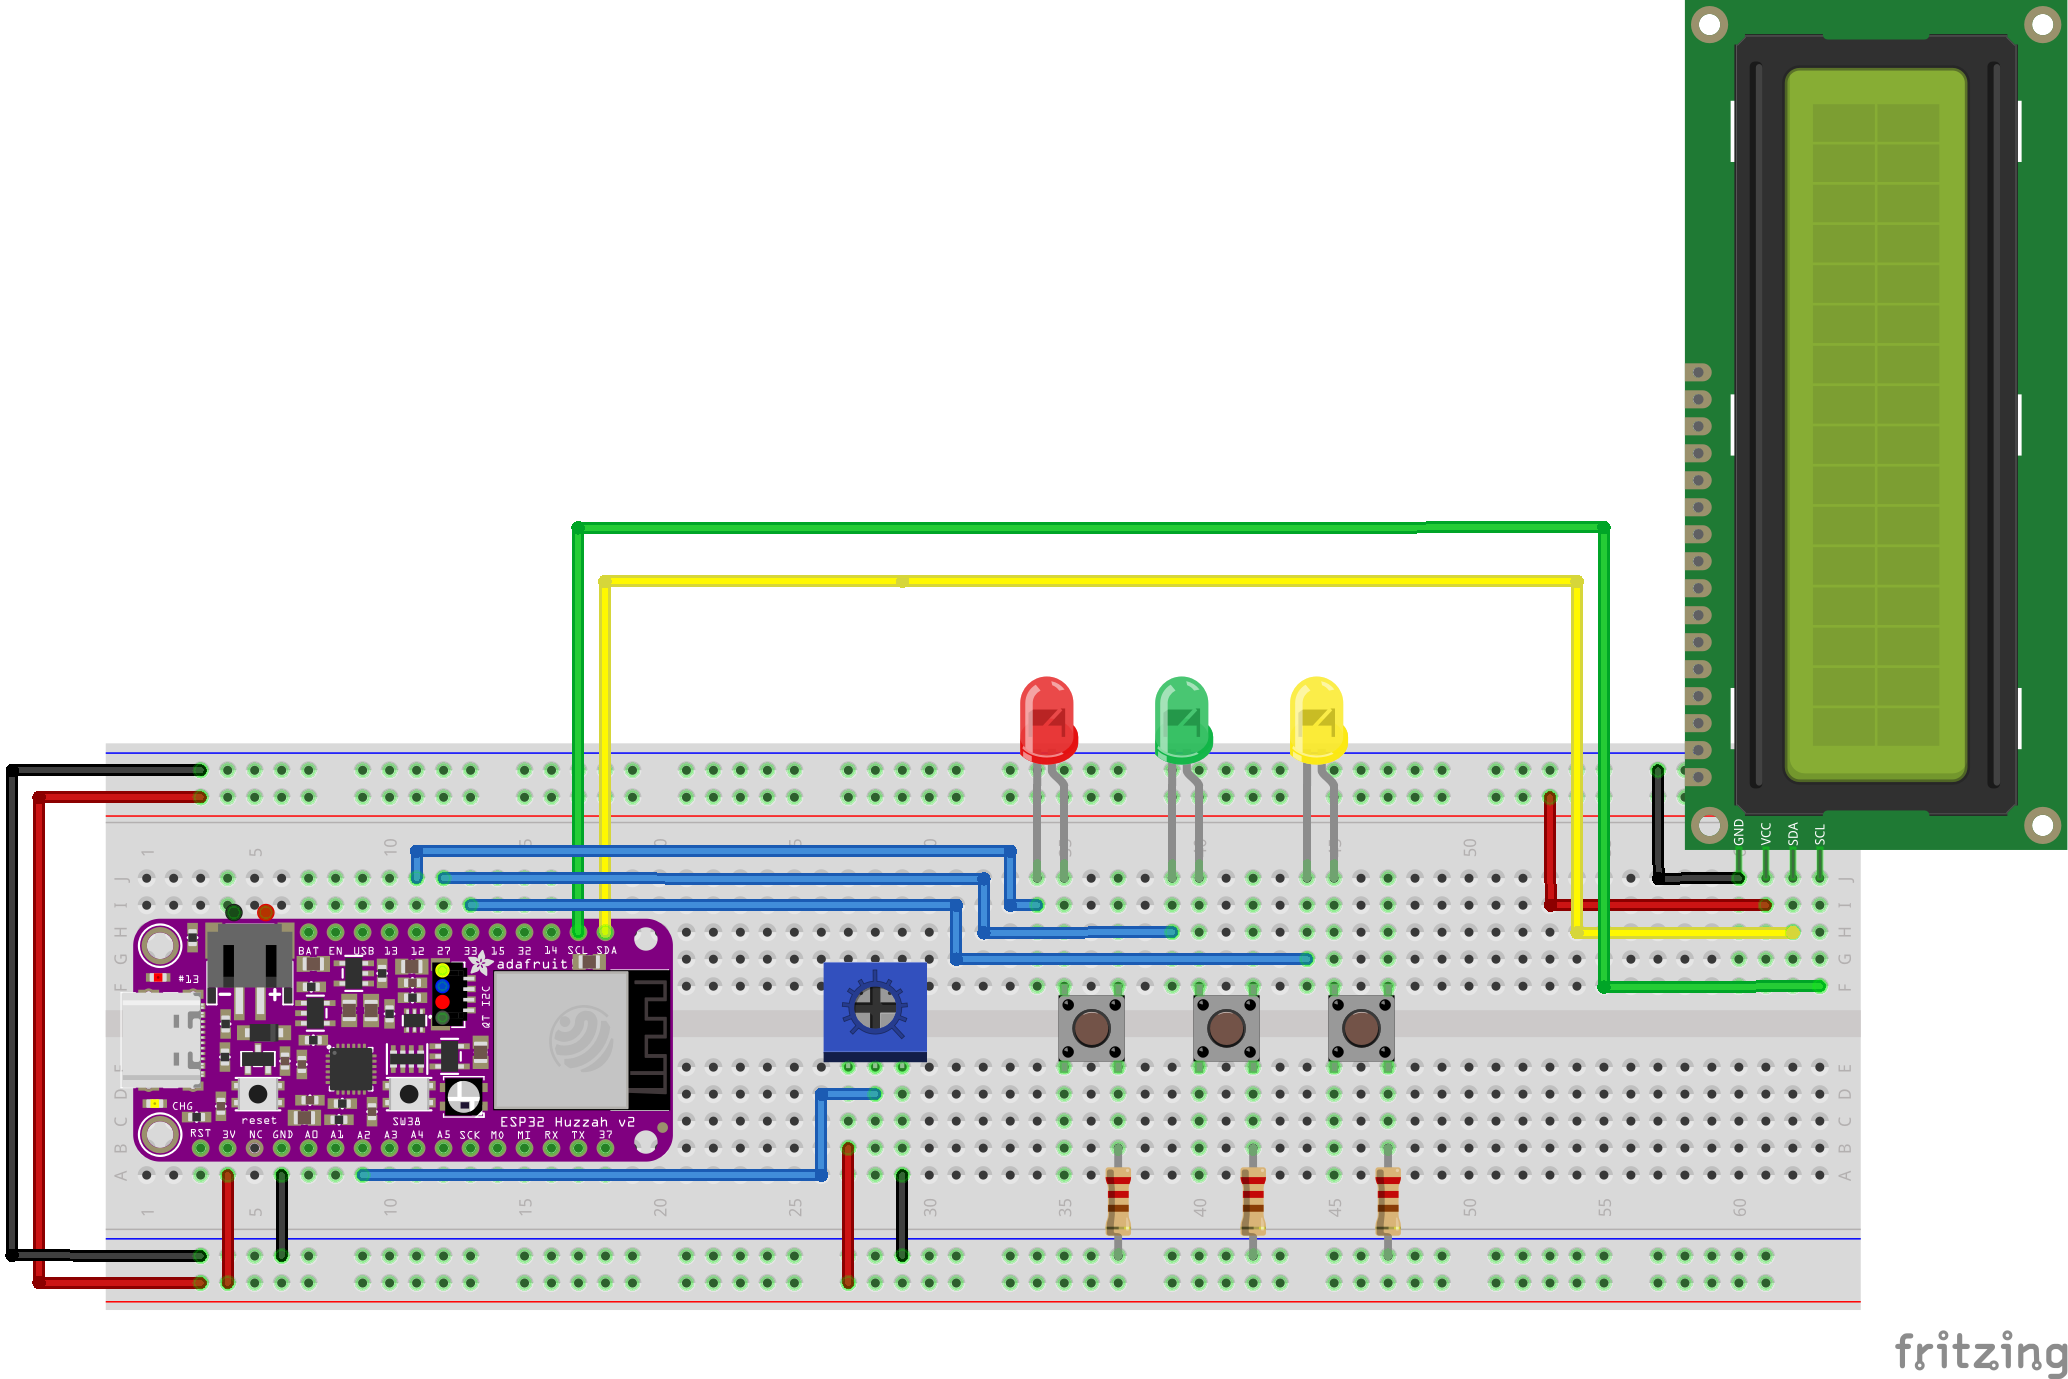
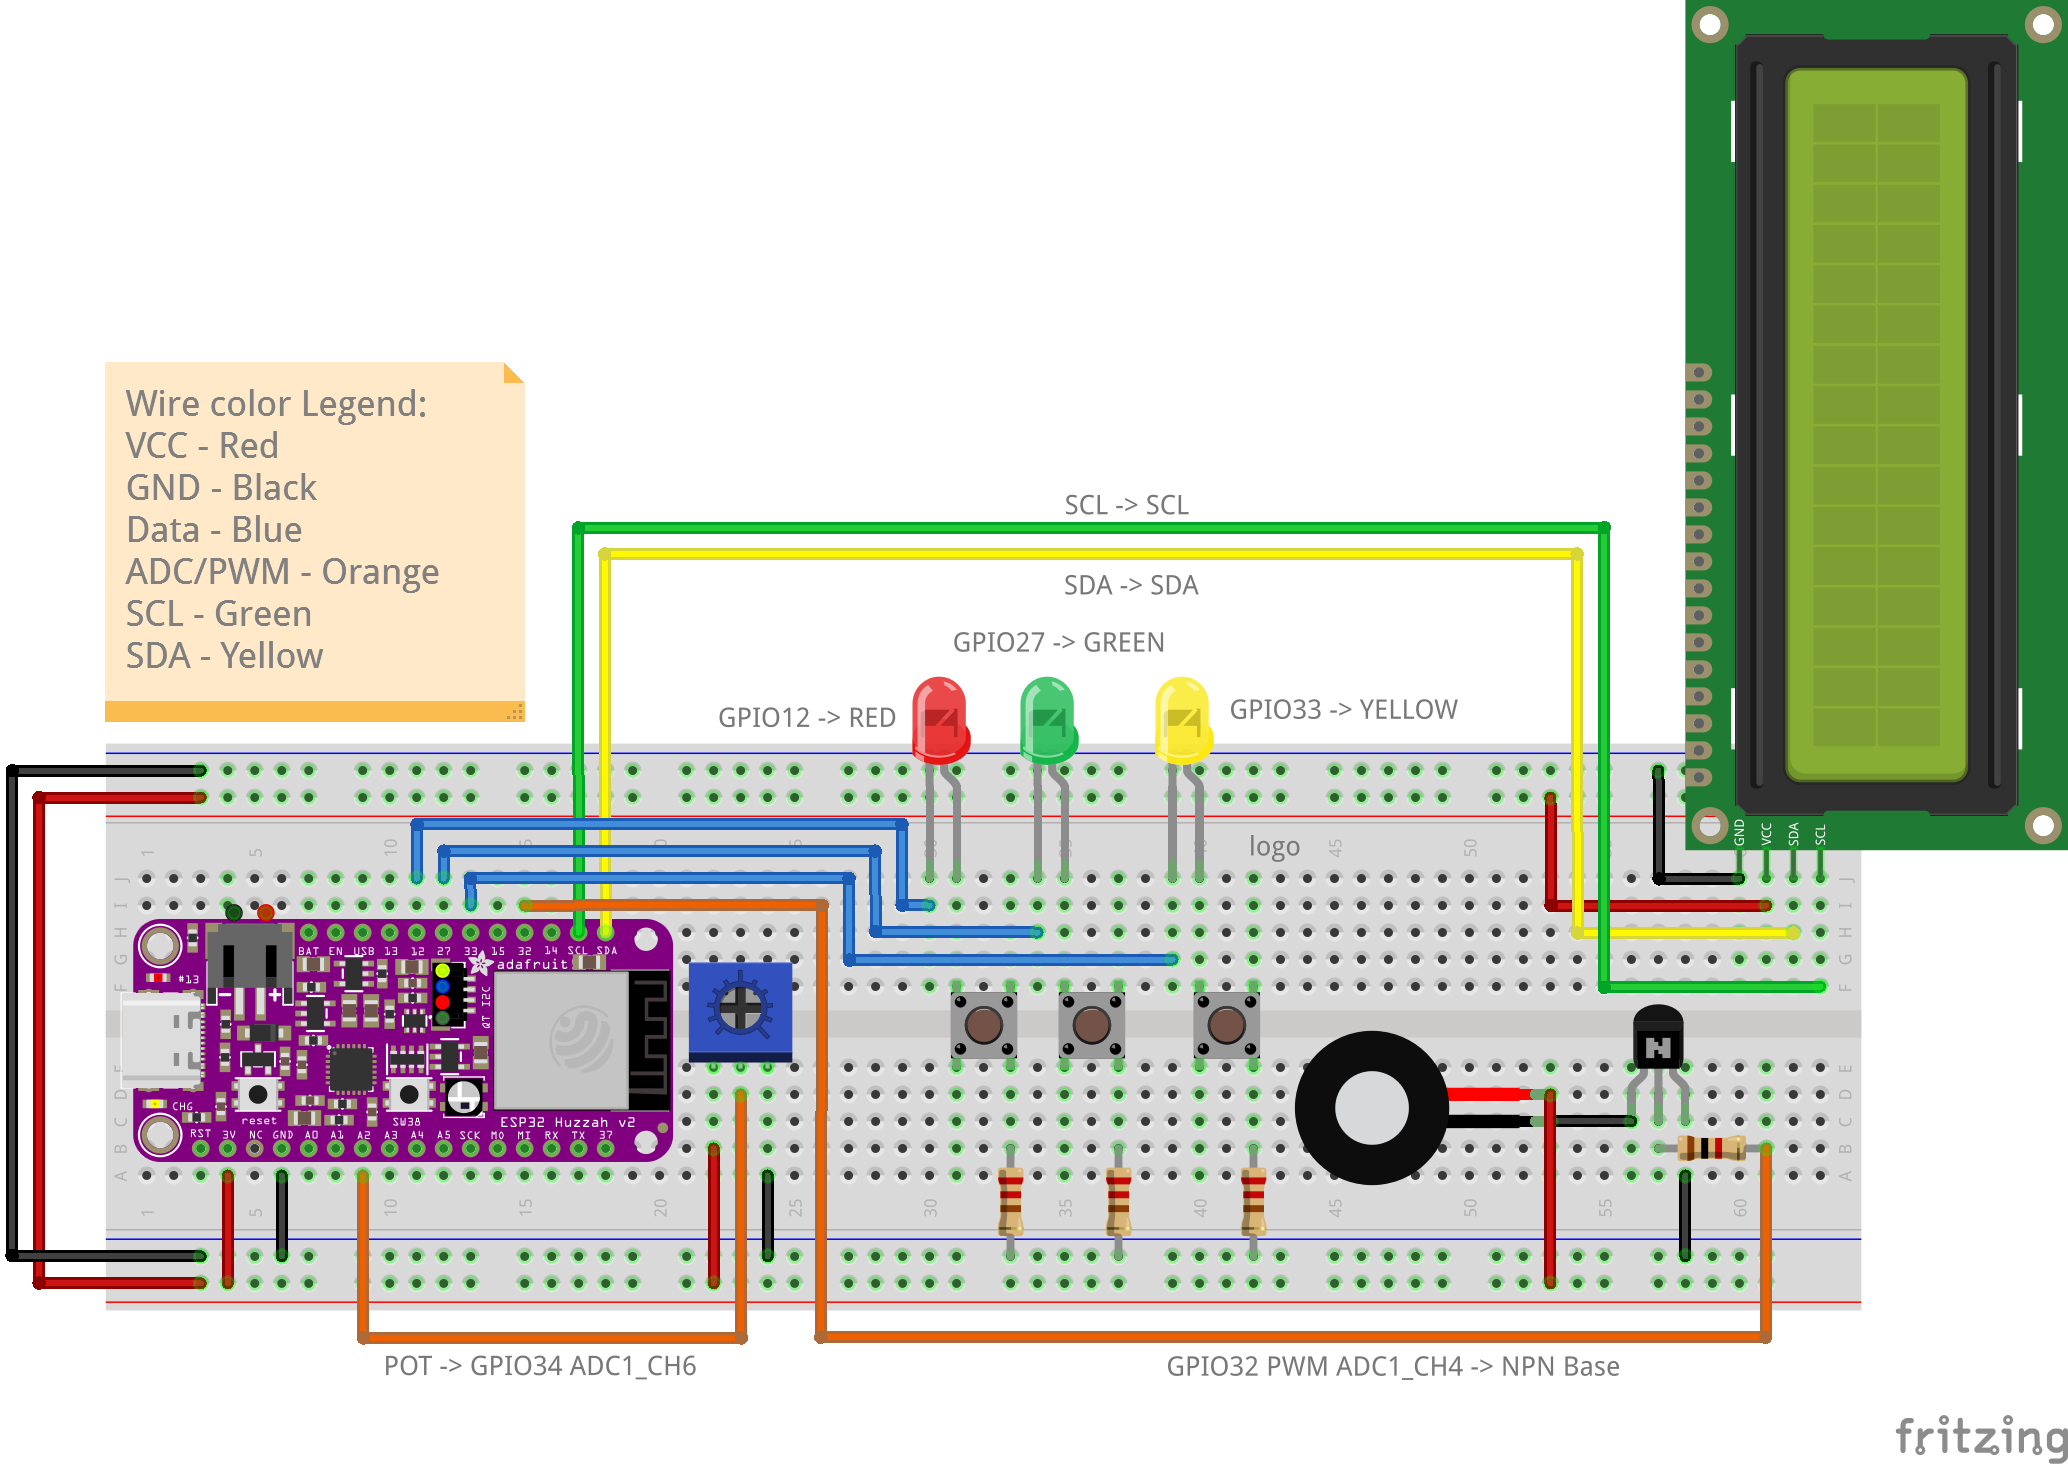
preliminary BOM, no vendors

diff --git a/hardware/BoM/minigames_bom.html b/hardware/BoM/minigames_bom.html
@@ -1,0 +1,250 @@
+<!DOCTYPE html PUBLIC "-//W3C//DTD XHTML 1.0 Transitional//EN" "http://www.w3.org/TR/xhtml1/DTD/xhtml1-transitional.dtd">
+<html xmlns="http://www.w3.org/1999/xhtml">
+<head>
+<meta http-equiv="Content-Type" content="text/html; charset=utf-8" />
+<title>Fritzing Bill of Materials</title>
+<style type="text/css">
+.meta {
+	font-size: small;
+	margin: 0.4em 0;
+}
+table {
+	border-collapse: collapse;
+}
+th {
+	font-weight: bold;
+	text-align: left;
+	border-bottom: 1px solid black;
+	padding: 0.1em 1.5em 0.2em 0.1em;
+}
+td {
+	border-bottom: 1px solid #CCC;
+	padding: 0.5em 1.5em 0.5em 0.1em;
+}
+.props {
+	font-size: smaller;
+}
+</style>
+</head>
+
+<body>
+<h1>Bill of Materials: minigames.fzz</h1>
+<p class="meta">D:/Github/Deactivision/hardware/schematic/minigames.fzz</p>
+<p class="meta">Saturday, March 28 2026, 16:18:46</p>
+
+<h2>Assembly List</h2>
+<table>
+
+  <thead>
+   <tr>
+    <th>Label</th>
+    <th>MN (manufacturer number)</th>
+    <th>MPN (manufacturer part number)</th>
+    <th>Part Type</th>
+    <th>Properties</th>
+    </tr>
+  </thead>
+  <tbody>
+  <tr>
+    <td>J2</td>
+    <td></td>
+    <td></td>
+    <td>Buzzer</td>
+    <td class="props">variant variant 1</td>
+</tr>
+<tr>
+    <td>LED1</td>
+    <td></td>
+    <td></td>
+    <td>Red (633nm) LED</td>
+    <td class="props">color Red (633nm); current 0.030A; leg yes; package 5 mm [THT]</td>
+</tr>
+<tr>
+    <td>LED2</td>
+    <td></td>
+    <td></td>
+    <td>Yellow (585nm) LED</td>
+    <td class="props">color Yellow (585nm); current 0.030A; leg yes; package 5 mm [THT]</td>
+</tr>
+<tr>
+    <td>LED3</td>
+    <td></td>
+    <td></td>
+    <td>Green (555nm) LED</td>
+    <td class="props">color Green (555nm); current 0.030A; leg yes; package 5 mm [THT]</td>
+</tr>
+<tr>
+    <td>Part1</td>
+    <td></td>
+    <td></td>
+    <td>Adafruit ESP32 Feather V2</td>
+    <td class="props">variant variant 1</td>
+</tr>
+<tr>
+    <td>Part2</td>
+    <td></td>
+    <td></td>
+    <td>LCD1602-I2C</td>
+    <td class="props">pins 4; type Character; variant variant 1</td>
+</tr>
+<tr>
+    <td>Q1</td>
+    <td></td>
+    <td></td>
+    <td>NPN-Transistor</td>
+    <td class="props">package TO92 [THT]; type NPN (EBC)</td>
+</tr>
+<tr>
+    <td>R1</td>
+    <td></td>
+    <td></td>
+    <td>220Ω Resistor</td>
+    <td class="props">resistance 220Ω; tolerance ±5%; power 0.25W; bands 4; package THT; pin spacing 400 mil</td>
+</tr>
+<tr>
+    <td>R2</td>
+    <td></td>
+    <td></td>
+    <td>220Ω Resistor</td>
+    <td class="props">resistance 220Ω; tolerance ±5%; power 0.25W; bands 4; package THT; pin spacing 400 mil</td>
+</tr>
+<tr>
+    <td>R3</td>
+    <td></td>
+    <td></td>
+    <td>220Ω Resistor</td>
+    <td class="props">resistance 220Ω; tolerance ±5%; power 0.25W; bands 4; package THT; pin spacing 400 mil</td>
+</tr>
+<tr>
+    <td>R4</td>
+    <td></td>
+    <td></td>
+    <td>TRIMPOT</td>
+    <td class="props">knob status 50%; maximum resistance 10kΩ; package 3386u; power 0.5W; variant -pth-knob</td>
+</tr>
+<tr>
+    <td>R5</td>
+    <td></td>
+    <td></td>
+    <td>1kΩ Resistor</td>
+    <td class="props">resistance 1kΩ; tolerance ±5%; power 0.25W; bands 4; package THT; pin spacing 400 mil</td>
+</tr>
+<tr>
+    <td>S1</td>
+    <td></td>
+    <td></td>
+    <td>Pushbutton</td>
+    <td class="props">contact resistance 0.1Ω; package [THT]; switch status Released</td>
+</tr>
+<tr>
+    <td>S2</td>
+    <td></td>
+    <td></td>
+    <td>Pushbutton</td>
+    <td class="props">contact resistance 0.1Ω; package [THT]; switch status Released</td>
+</tr>
+<tr>
+    <td>S3</td>
+    <td></td>
+    <td></td>
+    <td>Pushbutton</td>
+    <td class="props">contact resistance 0.1Ω; package [THT]; switch status Released</td>
+</tr>
+
+  </tbody>
+</table>
+<h2>Shopping List</h2>
+<table>
+  <thead>
+	<tr>
+    <th>Amount</th>
+    <th>MN (manufacturer number)</th>
+    <th>MPN (manufacturer part number)</th>
+    <th>Part Type</th>
+    <th>Properties</th>
+    </tr>
+  </thead>
+  <tbody>
+<tr>
+    <td>1</td>
+    <td></td>
+    <td></td>
+    <td>Buzzer</td>
+    <td class="props">variant variant 1</td>
+</tr>
+<tr>
+    <td>1</td>
+    <td></td>
+    <td></td>
+    <td>Red (633nm) LED</td>
+    <td class="props">color Red (633nm); current 0.030A; leg yes; package 5 mm [THT]</td>
+</tr>
+<tr>
+    <td>1</td>
+    <td></td>
+    <td></td>
+    <td>Yellow (585nm) LED</td>
+    <td class="props">color Yellow (585nm); current 0.030A; leg yes; package 5 mm [THT]</td>
+</tr>
+<tr>
+    <td>1</td>
+    <td></td>
+    <td></td>
+    <td>Green (555nm) LED</td>
+    <td class="props">color Green (555nm); current 0.030A; leg yes; package 5 mm [THT]</td>
+</tr>
+<tr>
+    <td>1</td>
+    <td></td>
+    <td></td>
+    <td>Adafruit ESP32 Feather V2</td>
+    <td class="props">variant variant 1</td>
+</tr>
+<tr>
+    <td>1</td>
+    <td></td>
+    <td></td>
+    <td>LCD1602-I2C</td>
+    <td class="props">pins 4; type Character; variant variant 1</td>
+</tr>
+<tr>
+    <td>1</td>
+    <td></td>
+    <td></td>
+    <td>NPN-Transistor</td>
+    <td class="props">package TO92 [THT]; type NPN (EBC)</td>
+</tr>
+<tr>
+    <td>3</td>
+    <td></td>
+    <td></td>
+    <td>220Ω Resistor</td>
+    <td class="props">resistance 220Ω; tolerance ±5%; power 0.25W; bands 4; package THT; pin spacing 400 mil</td>
+</tr>
+<tr>
+    <td>1</td>
+    <td></td>
+    <td></td>
+    <td>TRIMPOT</td>
+    <td class="props">knob status 50%; maximum resistance 10kΩ; package 3386u; power 0.5W; variant -pth-knob</td>
+</tr>
+<tr>
+    <td>1</td>
+    <td></td>
+    <td></td>
+    <td>1kΩ Resistor</td>
+    <td class="props">resistance 1kΩ; tolerance ±5%; power 0.25W; bands 4; package THT; pin spacing 400 mil</td>
+</tr>
+<tr>
+    <td>3</td>
+    <td></td>
+    <td></td>
+    <td>Pushbutton</td>
+    <td class="props">contact resistance 0.1Ω; package [THT]; switch status Released</td>
+</tr>
+
+  </tbody>
+</table>
+<p class="meta"><br/>Exported with Fritzing 1.0.6- http://fritzing.org</p>
+</body>
+</html>